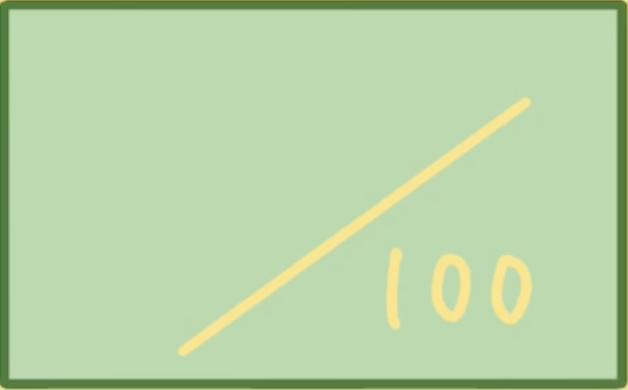
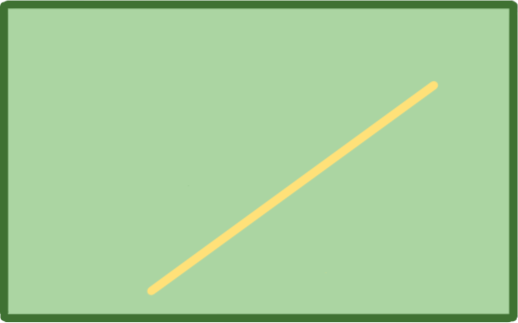
[fix]分母を図鑑の長さに変更

diff --git a/componets/ScorePanel.js b/componets/ScorePanel.js
@@ -1,5 +1,7 @@
 'use strict';
 
+import { getCardsDataLength } from "../data/cards.js";
+
 
 export class ScorePanel {
     /**
@@ -7,12 +9,13 @@ export class ScorePanel {
      */
     constructor(container, score){
         this.container = container;
-
+        const dictionaryLength=getCardsDataLength();
         container.innerHTML = 
         `
             <div id="score_base">
                 <img id="score_base_img" src="${new URL("images_score/score_base.png", import.meta.url)}">
                 <div id="score_num">${score}</div>
+                <div id="dictionary_length">${dictionaryLength}<div>
             </div>
                 
         `;

diff --git a/data/cards.js b/data/cards.js
@@ -21,3 +21,7 @@ export function getCardDataById(id){
     if(typeof id !== "number") throw new Error("idは数値である必要があります");
     return cardsData.find(card => card.id === id);
 }
+
+export function getCardsDataLength(){
+    return cardsData.length;
+}

diff --git a/componets/ScorePanel.css b/componets/ScorePanel.css
@@ -21,3 +21,17 @@
     color: rgb(85, 123, 68);
     text-align: right;
 }
+
+#dictionary_length{
+    position: absolute;
+    
+    top: 50%;
+    left: 50%;
+
+    width: 35%;
+    height: 60%;
+
+    font-size: 50px;
+    color: #ffe179;
+    text-align: right;
+}
